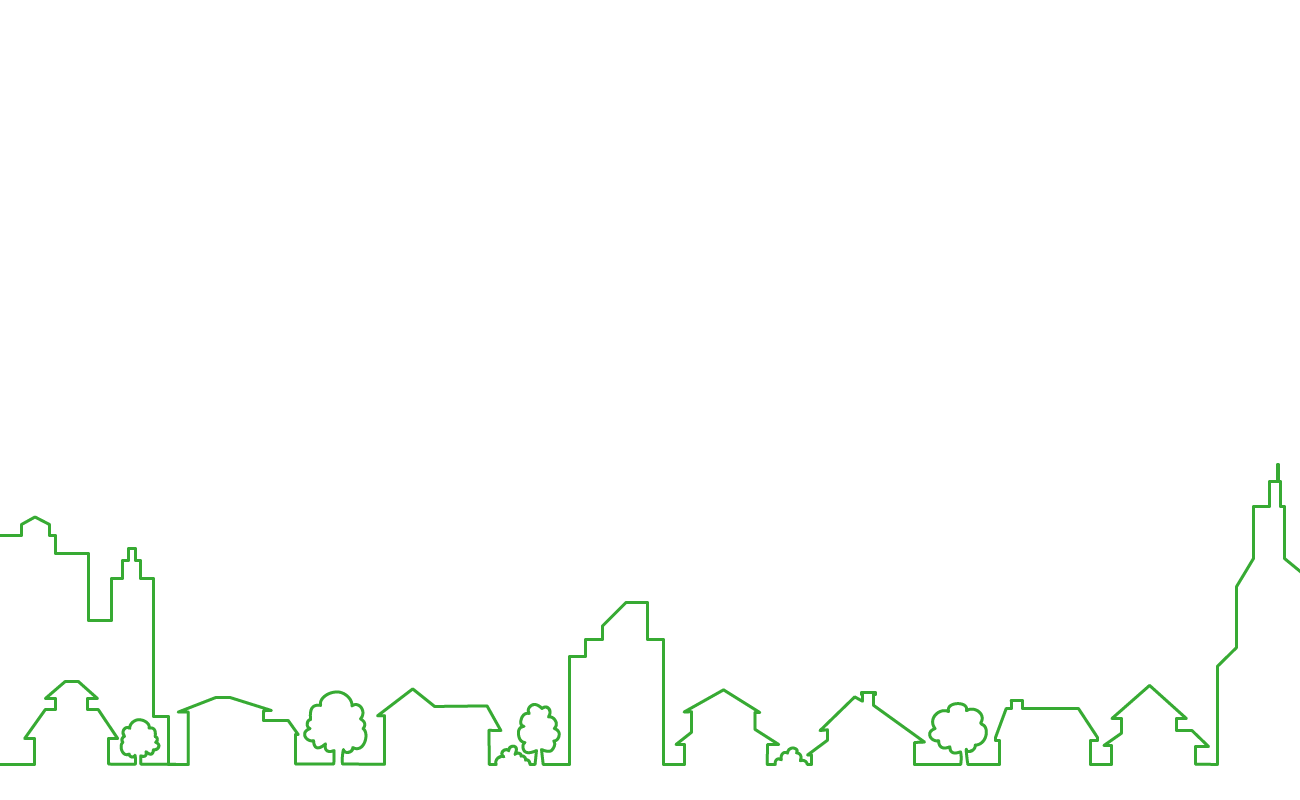
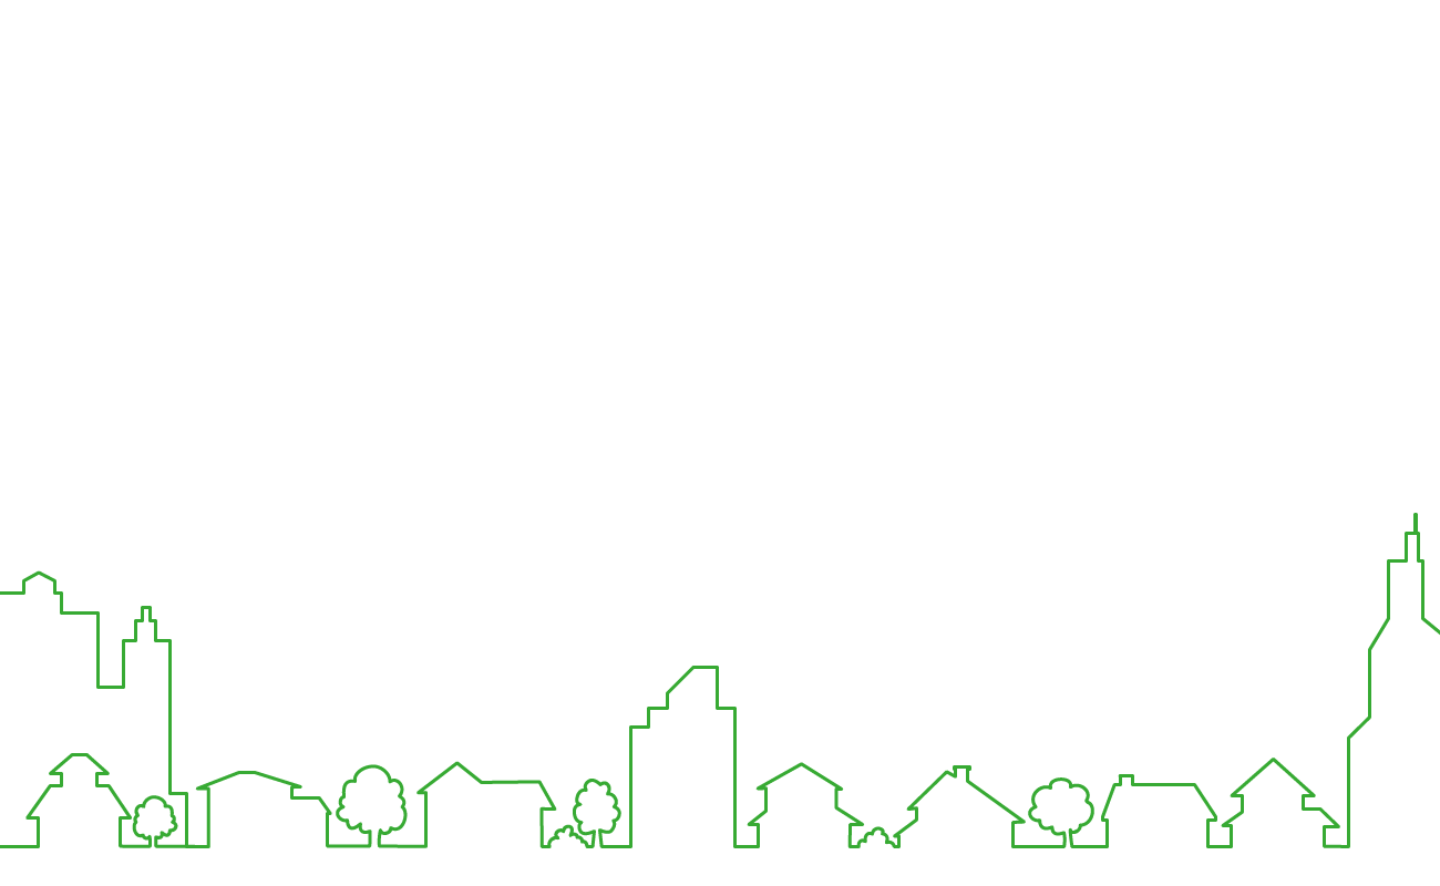
トップの画像表示を修正

diff --git a/public/css/welcome.css b/public/css/welcome.css
@@ -1,6 +1,10 @@
 @charset "UTF-8";
 
 
-body {
-  background: url("/images/top.png");
-}
+ body {
+　padding-top: 61.52%;
+  background: url("/images/top.png") no-repeat;
+  background-position: center center;
+　background-size: cover;
+　bottom: 0;
+} 

diff --git a/routes/web.php b/routes/web.php
@@ -46,8 +46,8 @@ Route::post('password/reset', 'Auth\ResetPasswordController@reset')->name('passw
 // ユーザ機能
 Route::group(['middleware' => ['auth']], function () {
     
-    Route::get('/home', 'PlacesController@index')->name('places.index');
-    Route::resource('places', 'PlacesController');
+    
+   //  Route::resource('places', 'PlacesController');
     
     Route::group(['prefix' => 'home/{id}'], function (){
        Route::get('likes', 'UsersController@likes')->name('users.likes'); 
@@ -61,12 +61,12 @@ Route::group(['middleware' => ['auth']], function () {
     
     
     
-    
-    // Route::post('places','PlacesController@store')->name('places.store');
-    // Route::put('places/{id}','PlacesController@update')->name('places.update');
-    // Route::delete('places/{id}', 'PlacesController@destroy')->name('places.destroy');
-    // Route::get('places/create','PlacesController@create')->name('places.create');
-    // Route::get('places/{id}/edit','PlacesController@edit')->name('places.edit');
+    Route::get('/home', 'PlacesController@index')->name('places.index');
+    Route::post('places','PlacesController@store')->name('places.store');
+    Route::put('places/{id}','PlacesController@update')->name('places.update');
+    Route::delete('places/{id}', 'PlacesController@destroy')->name('places.destroy');
+    Route::get('places/create','PlacesController@create')->name('places.create');
+    Route::get('places/{id}/edit','PlacesController@edit')->name('places.edit');
 });
 
 

diff --git a/resources/views/welcome.blade.php b/resources/views/welcome.blade.php
@@ -9,9 +9,10 @@
     </head>
     
     <body>
+        
         @include('commons.navbar')
         @include('commons.error_messages')
-                
+
         <div class="top">
             
             <div class="text-center">
@@ -21,13 +22,13 @@
                 </h2>
                 <br><br>
                 <h3>どの様な投稿がされているかこちらから見れます→{!! link_to_route('places.all', '投稿一覧へ', [], []) !!}</h3>
-                <br><br><br>
+                <br>
                 <h4>投稿は下記ユーザ登録ボタンよりユーザ登録の上実施できます。</h4>
-                <br><br>
+                <br>
                 {!! link_to_route('signup.get', 'ユーザ登録', [], ['class' => 'btn btn-lg btn-primary']) !!}
             </div>
         </div>
-            
+
         <script src="https://code.jquery.com/jquery-3.3.1.slim.min.js"></script>
         <script src="https://cdnjs.cloudflare.com/ajax/libs/popper.js/1.14.6/umd/popper.min.js"></script>
         <script src="https://stackpath.bootstrapcdn.com/bootstrap/4.2.1/js/bootstrap.min.js"></script>

diff --git a/app/Http/Middleware/ForceHttpProtocol.php b/app/Http/Middleware/ForceHttpProtocol.php
@@ -1,0 +1,24 @@
+<?php
+
+namespace App\Http\Middleware;
+
+use Closure;
+
+class ForceHttpProtocol
+{
+    /**
+     * Handle an incoming request.
+     *
+     * @param  \Illuminate\Http\Request  $request
+     * @param  \Closure  $next
+     * @return mixed
+     */
+    public function handle($request, Closure $next) 
+    {
+        if (!$request->secure() && env('APP_ENV') === 'production') { 
+            return redirect()->secure($request->getRequestUri());
+        }
+
+        return $next($request);
+    }
+}

diff --git a/resources/views/place/place_detail.blade.php b/resources/views/place/place_detail.blade.php
@@ -18,7 +18,7 @@
             <h1>{{ $place->title }}</h1>
         </div>
             <div class="row">
-                <div class="col-md-6"><img src="{{ $place->picture_path }}" class="d-block mx-auto" style="max-width:600px;"></div>
+                <div class="col-md-6"><img src="{{ $place->picture_path }}" class="d-block mx-auto" style="max-width=100%;"></div>
                 <div class="col-md-6">
                     <table class="table table-bordered">
                         <thread>

diff --git a/resources/views/auth/passwords/reset.blade.php b/resources/views/auth/passwords/reset.blade.php
@@ -7,7 +7,6 @@
 
     <div class="row">
         <div class="col-sm-6 offset-sm-3">
-            
             <form class="form" method="POST" action="{{ route('password.request') }}">
                 {{ csrf_field() }}
                 <input type="hidden" name="token" value="{{ $token }}">
@@ -50,7 +49,6 @@
                          パスワードリセット
                     </button>
                 </div>
-
             </form>
         </div>
     </div>

diff --git a/app/Http/Kernel.php b/app/Http/Kernel.php
@@ -19,6 +19,7 @@ class Kernel extends HttpKernel
         \App\Http\Middleware\TrimStrings::class,
         \Illuminate\Foundation\Http\Middleware\ConvertEmptyStringsToNull::class,
         \App\Http\Middleware\TrustProxies::class,
+        \App\Http\Middleware\ForceHttpProtocol::class,
     ];
 
     /**
